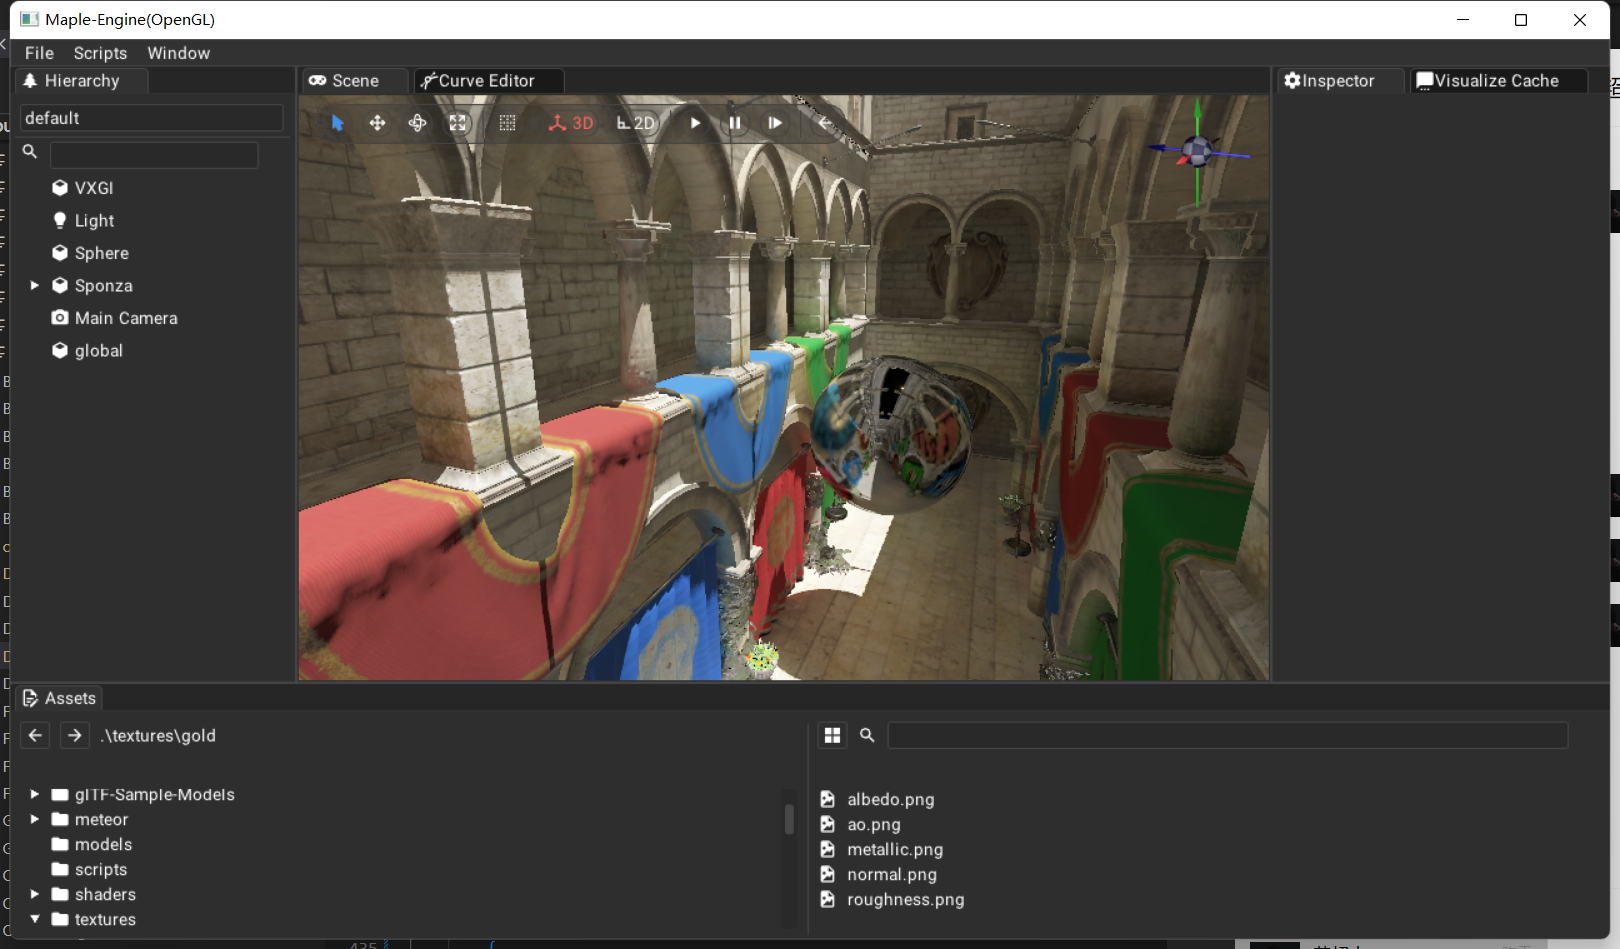
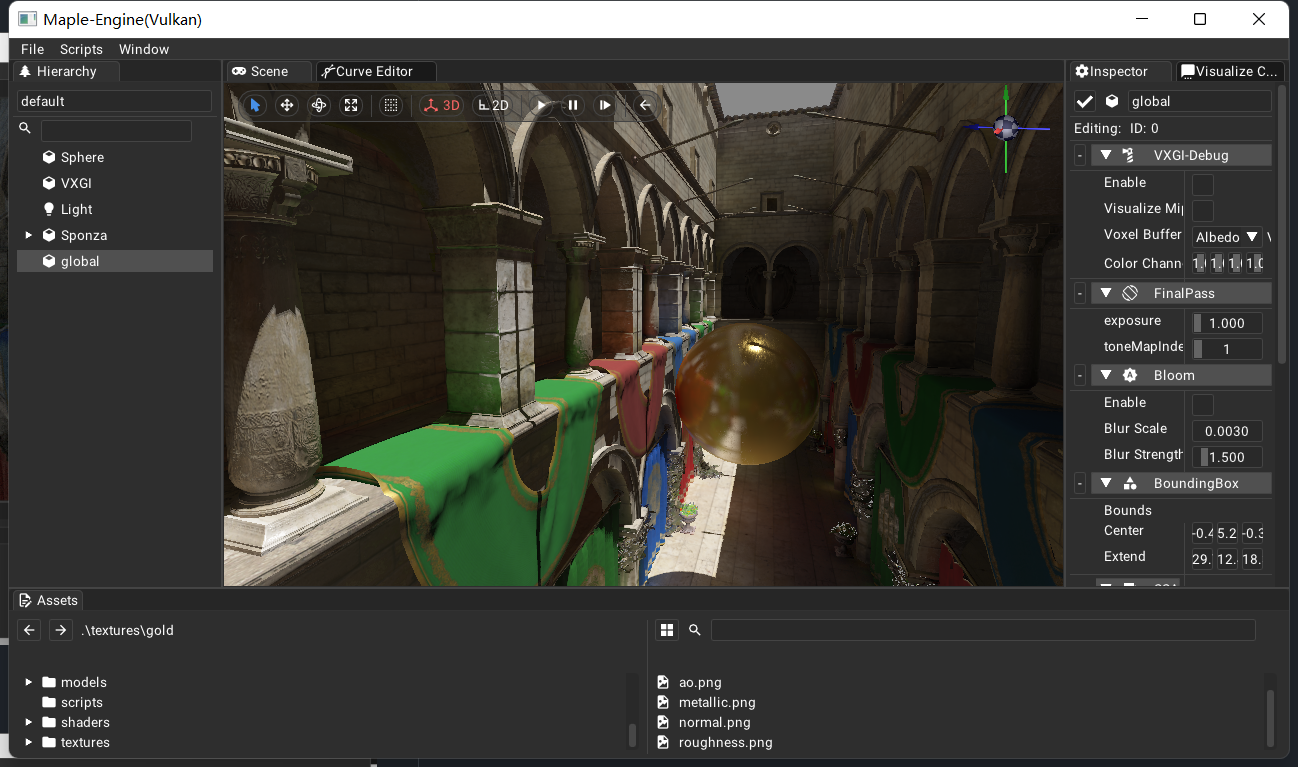
fix BRDF in VXGI

diff --git a/Code/Maple/src/Engine/Renderer/FinalPass.cpp b/Code/Maple/src/Engine/Renderer/FinalPass.cpp
@@ -64,7 +64,7 @@ namespace maple
 				for (auto ent : group)
 				{
 					auto [path] = group.convert(ent);
-					finalData.finalDescriptorSet->setTexture("uScreenSampler", path.images[1 - path.readIndex]);
+					finalData.finalDescriptorSet->setTexture("uScreenSampler", path.images[path.readIndex]);
 				}
 			}
 
